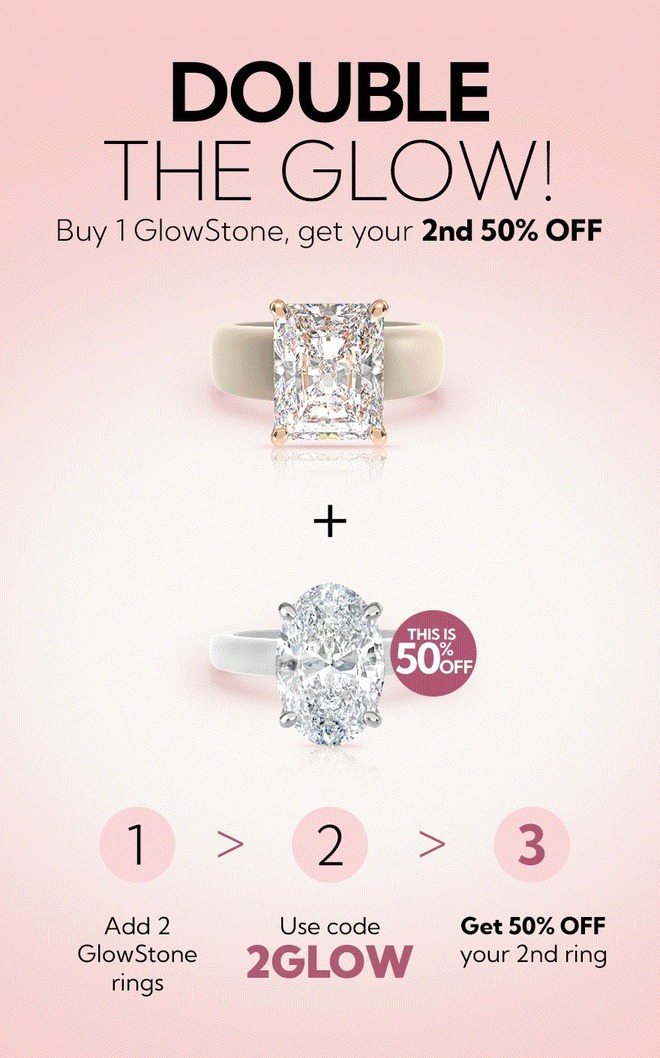
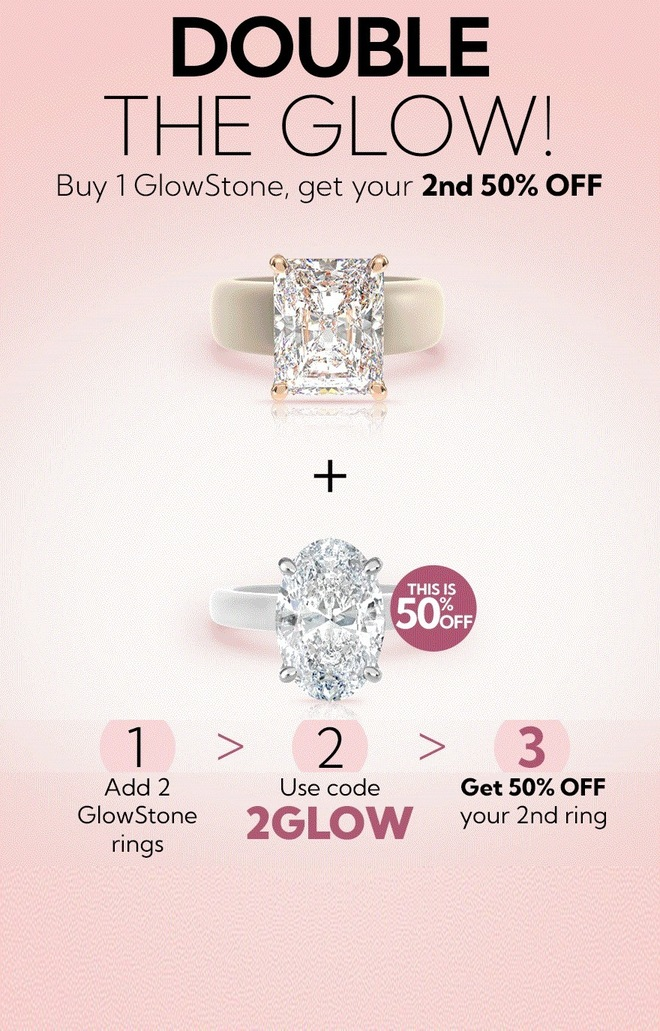
Пункт 02: кнопка на банері стала нормальною — широка, під кроками 1-2-3, як справжня кнопка магазину
Банер перезібрано: підрізано порожні смуги всередині, знизу розтягнуто рідне рожеве поле під CTA. Кнопка більше не тулиться до каблучки й наліпки 50% OFF.

diff --git a/en/index.html b/en/index.html
@@ -1122,9 +1122,9 @@ a.irow:hover b{text-decoration:underline}
 /* 02 — банер зі справжньою кнопкою */
 .rf2 .r-hero4{position:relative;background:#F6CECC}
 .rf2 .r-hero4 img{width:100%;display:block}
-.rf2 .r-hero4-cta{position:absolute;left:50%;top:73.5%;transform:translate(-50%,-50%);white-space:nowrap;
-  background:#1B1B1B;color:#fff;padding:3cqw 7cqw;font-size:.74em;font-weight:600;letter-spacing:.07em;
-  box-shadow:0 1.4cqw 3.4cqw rgba(0,0,0,.22)}
+.rf2 .r-hero4-cta{position:absolute;left:50%;top:92%;transform:translate(-50%,-50%);white-space:nowrap;
+  background:#1B1B1B;color:#fff;padding:3.4cqw 10cqw;font-size:.8em;font-weight:600;letter-spacing:.08em;
+  box-shadow:0 1.2cqw 3cqw rgba(0,0,0,.16)}
 
 /* 03 — знижка помітною плашкою */
 .rf2 .r-pdph{padding:4cqw 3.4cqw 1.6cqw;font-size:1.02em;font-weight:600;line-height:1.28}

diff --git a/index.html b/index.html
@@ -1127,9 +1127,9 @@ a.irow:hover b{text-decoration:underline}
 /* 02 — банер зі справжньою кнопкою */
 .rf2 .r-hero4{position:relative;background:#F6CECC}
 .rf2 .r-hero4 img{width:100%;display:block}
-.rf2 .r-hero4-cta{position:absolute;left:50%;top:73.5%;transform:translate(-50%,-50%);white-space:nowrap;
-  background:#1B1B1B;color:#fff;padding:3cqw 7cqw;font-size:.74em;font-weight:600;letter-spacing:.07em;
-  box-shadow:0 1.4cqw 3.4cqw rgba(0,0,0,.22)}
+.rf2 .r-hero4-cta{position:absolute;left:50%;top:92%;transform:translate(-50%,-50%);white-space:nowrap;
+  background:#1B1B1B;color:#fff;padding:3.4cqw 10cqw;font-size:.8em;font-weight:600;letter-spacing:.08em;
+  box-shadow:0 1.2cqw 3cqw rgba(0,0,0,.16)}
 
 /* 03 — знижка помітною плашкою */
 .rf2 .r-pdph{padding:4cqw 3.4cqw 1.6cqw;font-size:1.02em;font-weight:600;line-height:1.28}
